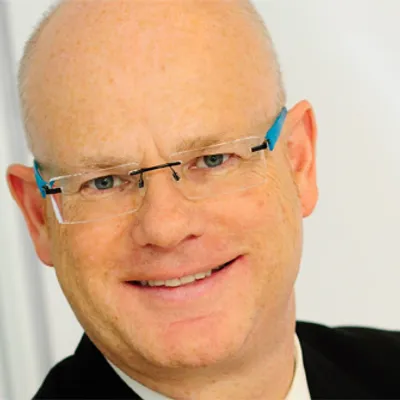
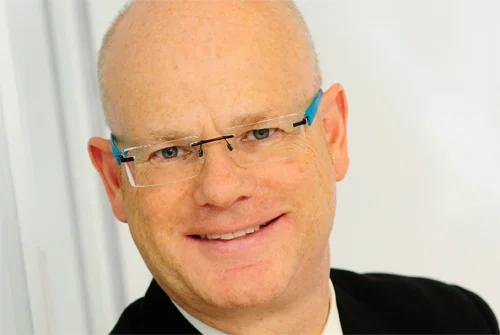
Fix: Restore original team images and use intrinsic aspect ratio

diff --git a/src/app/[lang]/about/page.tsx b/src/app/[lang]/about/page.tsx
@@ -73,11 +73,11 @@ export default async function AboutPage({ params }: { params: Promise<{ lang: st
                     <div className="grid grid-cols-1 md:grid-cols-2 lg:grid-cols-3 gap-x-12 gap-y-16">
                         {dict.about.team.members?.map((member: any, index: number) => (
                             <div key={index} className="group">
-                                <div className="overflow-hidden rounded-2xl mb-6 bg-slate-100 shadow-sm relative aspect-video">
+                                <div className="overflow-hidden rounded-2xl mb-6 bg-slate-100 shadow-sm">
                                     <img
                                         src={member.image}
                                         alt={member.name}
-                                        className="absolute inset-0 w-full h-full object-cover transition-transform duration-700 group-hover:scale-105"
+                                        className="w-full h-auto transition-transform duration-700 group-hover:scale-105"
                                     />
                                 </div>
                                 <div className="text-left">
